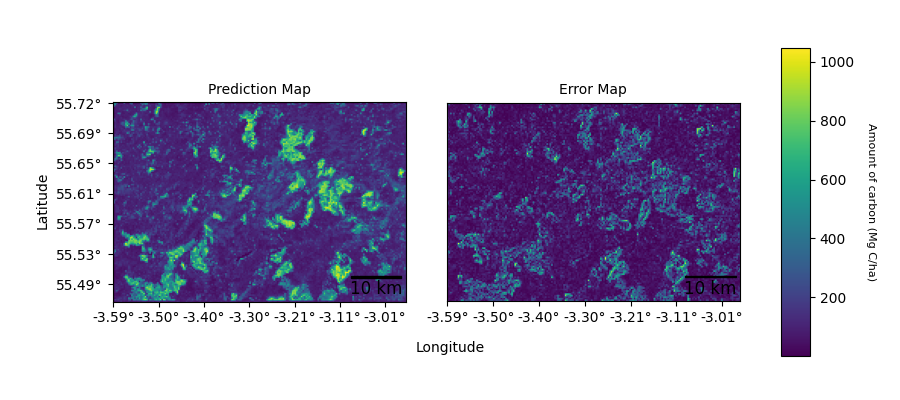
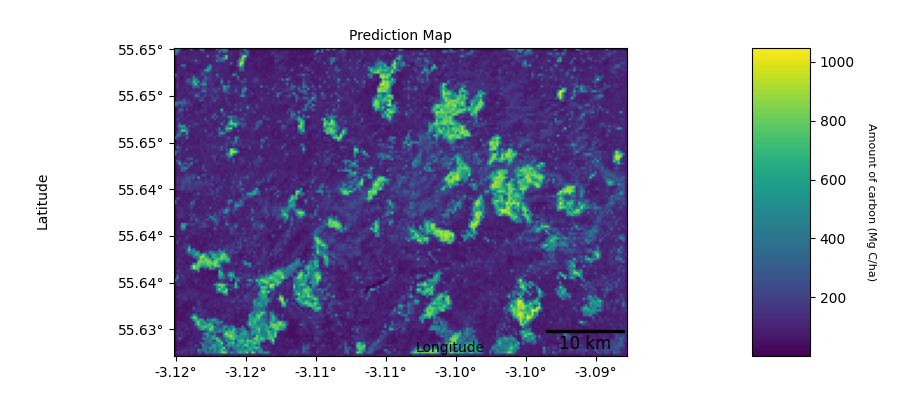
Fixed carbon output - now outputs matching area, although the pixels are limited to 300m by the ML

diff --git a/workspace/lib/goomap.dart b/workspace/lib/goomap.dart
@@ -95,30 +95,7 @@ class _GooMapState extends State<GooMap> {
     return -1;
   }
 
-  /*
 
-  Future<UserModel> createUser(String name, String jobTitle) async {
-    //final String apiUrl = "https://reqres.in/api/users";
-    final String apiUrl = "http://10.0.2.2:5000/lat_long/carbon";
-    final response = await http
-        .post(Uri.parse(apiUrl), body: {"name": name, "job": jobTitle});
-    print('----------------');
-    print(' STATUS CODE: ');
-    print(response.statusCode);
-    print('----------------');
-    if (response.statusCode == 200) {
-      final String responseString = response.body;
-      print(' ------------- ');
-      print(' RESPONSE BODY: ');
-      print(responseString);
-      print(' ------------- ');
-
-      return userModelFromJson(responseString);
-    } else {
-      return null;
-    }
-  }
-  */
 
   Future<Image> sendCoords(LatLng top_l, LatLng btm_r) async {
     //final String apiUrl = "https://reqres.in/api/users";
@@ -131,20 +108,20 @@ class _GooMapState extends State<GooMap> {
       "btm_r_lat": btm_r.latitude.toString(),
       "btm_r_long": btm_r.longitude.toString()
     });
+
     print('----------------');
     print(' STATUS CODE: ');
     print(response.statusCode);
     print('----------------');
     if (response.statusCode == 200) {
       final String responseString = response.body;
-      // print(' ------------- ');
-      // print(' RESPONSE BODY: ');
-      // print(responseString);
-      // print(' ------------- ');
-      // // final carbonPlot = await Image.memory(response.bodyBytes).image;
+      print(' ------------- ');
+      print(' RESPONSE BODY: ');
+      print(responseString);
+      print(' ------------- ');
       var carbonPlot = await Image.memory(response.bodyBytes);
       return carbonPlot;
-      //return coordsFromJson(responseString);
+      // return coordsFromJson(responseString);
     } else {
       return null;
     }
@@ -358,13 +335,16 @@ class _GooMapState extends State<GooMap> {
                 if (polygonLatLngs.length > 3) {
                   Tuple2<LatLng, LatLng> rec =
                       approximateRectangle(polygonLatLngs);
+
                   void test() async {
-                    //Coords _aCoord;
+                    // UserModel _aUser;
                     print(' ----- IN void test() -----');
-                    // final Coords aCoord =
-                    //     await sendCoords(rec.item1, rec.item2);
+                    // final UserModel aUser = await createUser("Kob", "stu");
+
                     final Image carbonPlot =
                         await sendCoords(rec.item1, rec.item2);
+                    // final Coords aCoord =
+                    //     await sendCoords(rec.item1, rec.item2);
                     Navigator.push(
                         context,
                         MaterialPageRoute(

diff --git a/workspace/lib/talk_server.dart b/workspace/lib/talk_server.dart
@@ -31,3 +31,35 @@ class Coords {
         "btm_r_long": btmRLong,
       };
 }
+
+UserModel userModelFromJson(String str) => UserModel.fromJson(json.decode(str));
+
+String userModelToJson(UserModel data) => json.encode(data.toJson());
+
+class UserModel {
+  String name;
+  String job;
+  String id;
+  DateTime createdAt;
+
+  UserModel({
+    this.name,
+    this.job,
+    this.id,
+    this.createdAt,
+  });
+
+  factory UserModel.fromJson(Map<String, dynamic> json) => UserModel(
+        name: json["name"],
+        job: json["job"],
+        id: json["id"],
+        createdAt: DateTime.parse(json["createdAt"]),
+      );
+
+  Map<String, dynamic> toJson() => {
+        "name": name,
+        "job": job,
+        "id": id,
+        "createdAt": createdAt.toIso8601String(),
+      };
+}

diff --git a/server/carbon_calc/ML/Carbon-Trading-Verfication/scotland_carbon/src/carbon_maps.py b/server/carbon_calc/ML/Carbon-Trading-Verfication/scotland_carbon/src/carbon_maps.py
@@ -58,7 +58,7 @@ def evaluate(model_path, input_path, isLog):
 
 
 # Function to plot prediction data and error data
-def plot_graph(result_data, err_data, title, map_style, out_file_name, x_coord_l, x_coord_r, y_coord_t, y_coord_b):
+def plot_graph(result_data, title, map_style, out_file_name, x_coord_l, x_coord_r, y_coord_t, y_coord_b):
     # Set font
     print(' ------------------------- ')
     print(' x_l: ', x_coord_l, '  x_r: ', x_coord_r, '  y_t: ', y_coord_t, '  y_b: ', y_coord_b)
@@ -85,15 +85,15 @@ def plot_graph(result_data, err_data, title, map_style, out_file_name, x_coord_l
 
     ###################################################################################
     # Specify grid ratio
-    gridspec = {'width_ratios': [1, 1, 0.1]}
+    gridspec = {'width_ratios': [1, 0.1]}
     # Create figure and subplots
-    fig, (ax1, ax2, ax3) = plt.subplots(ncols=3, nrows=1, figsize=(9, 4), gridspec_kw=gridspec)
+    fig, (ax1, ax3) = plt.subplots(ncols=2, nrows=1, figsize=(9, 4), gridspec_kw=gridspec)
     
     # Set formatter for x and y axis
     ax1.xaxis.set_major_formatter(plt.FuncFormatter(x_format_func))
-    ax2.xaxis.set_major_formatter(plt.FuncFormatter(x_format_func))
+    #ax2.xaxis.set_major_formatter(plt.FuncFormatter(x_format_func))
     ax1.xaxis.set_major_locator(plt.MaxNLocator(7))
-    ax2.xaxis.set_major_locator(plt.MaxNLocator(7))
+    #ax2.xaxis.set_major_locator(plt.MaxNLocator(7))
     ax1.yaxis.set_major_formatter(plt.FuncFormatter(y_format_func))
 
     # Set scalebar for left and right subplot
@@ -105,25 +105,25 @@ def plot_graph(result_data, err_data, title, map_style, out_file_name, x_coord_l
                                size_vertical=1,
                                fontproperties=fontprops)
     
-    scalebar2 = AnchoredSizeBar(ax2.transData,
-                               33.3, '10 km', 'lower right', 
-                               pad=0.1,
-                               color='black',
-                               frameon=False,
-                               size_vertical=1,
-                               fontproperties=fontprops)
+    # scalebar2 = AnchoredSizeBar(ax2.transData,
+    #                            33.3, '10 km', 'lower right', 
+    #                            pad=0.1,
+    #                            color='black',
+    #                            frameon=False,
+    #                            size_vertical=1,
+    #                            fontproperties=fontprops)
 
     # Add scale bar to subplots
     ax1.add_artist(scalebar1)
-    ax2.add_artist(scalebar2)
+    #ax2.add_artist(scalebar2)
     # Set title to subplots
     ax1.set_title('Prediction Map', size=10)
-    ax2.set_title('Error Map', size=10)
+    #ax2.set_title('Error Map', size=10)
     
     # Set prediction plot and error plot with colour map
     pred_plot = ax1.imshow(result_data, cmap = map_style)
-    err_plot = ax2.imshow(err_data, cmap = map_style)
-    ax2.get_yaxis().set_visible(False)
+    #err_plot = ax2.imshow(err_data, cmap = map_style)
+    #ax2.get_yaxis().set_visible(False)
     
     # Set figure labels - latitude and longitude
     fig.text(0.5, 0.12, 'Longitude', ha='center')
@@ -190,7 +190,7 @@ def plot_single_graph(result_data, map_style, out_file_name):
 # Get SOC Ground Truth
 #soc_truth = rasterio.open(fr'C:\Users\admin\OneDrive\Computing\Yr5 Advanced Computing\MAC Project\Carbon-Trading-Verification\scotland_carbon\data\Train_SOCS_0-30_27700_clipped.tif').read(1)
 
-def main(x_coord_l, x_coord_r, y_coord_t, y_coord_b):
+def main(path_to_rasterio, x_coord_l, x_coord_r, y_coord_t, y_coord_b):
     soc_truth = rasterio.open(fr'/Users/kobikelemen/flutter/packages/eng-change-computing-project/server/carbon_calc/ML/Carbon-Trading-Verfication/scotland_carbon/data/Train_SOCS_0-30_27700_clipped.tif').read(1)
     
     # Get SOC Prediction
@@ -203,9 +203,9 @@ def main(x_coord_l, x_coord_r, y_coord_t, y_coord_b):
     #agb_truth = rasterio.open(fr'C:\Users\admin\OneDrive\Computing\Yr5 Advanced Computing\MAC Project\Carbon-Trading-Verification\scotland_carbon\data\agb_c1_27700_300m_clipped.tif').read(1)
     agb_truth = rasterio.open(fr'/Users/kobikelemen/flutter/packages/eng-change-computing-project/server/carbon_calc/ML/Carbon-Trading-Verfication/scotland_carbon/data/agb_c1_27700_300m_clipped.tif').read(1)
     # Get AGB Prediction
-    agb_result = evaluate(model_paths['model_H'], input_paths['model_H'], False)
+    agb_result = evaluate(model_paths['model_H'], path_to_rasterio, False)
     # Uncomment to plot agb predicion and error graphs
-    plot_graph(agb_result, np.abs(agb_truth - agb_result[:130, :192]), 'YlGn','viridis' ,fr'/Users/kobikelemen/flutter/packages/eng-change-computing-project/server/flask_server/carbon_prediction_images/graph', x_coord_l, x_coord_r, y_coord_t, y_coord_b)
+    plot_graph(agb_result, 'YlGn','viridis' ,fr'/Users/kobikelemen/flutter/packages/eng-change-computing-project/server/flask_server/carbon_prediction_images/graph_1', x_coord_l, x_coord_r, y_coord_t, y_coord_b)
 
     # Uncomment to plot total carbon ground truth 
     # plot_single_graph(
@@ -225,7 +225,10 @@ def main(x_coord_l, x_coord_r, y_coord_t, y_coord_b):
     # plot_single_graph(
     #     agb_result+soc_result, 
     #     'YlOrRd' ,
-    #     '../../report_output/exp1-joint/carbon_maps/total_carbon_map_pred.png'
+    #     '/Users/kobikelemen/flutter/packages/eng-change-computing-project/server/carbon_calc/ML/Carbon-Trading-Verfication/scotland_carbon/report_output/exp1-joint/carbon_maps/total_carbon_map_pred_1.png'
     #     )
 
 
+if __name__ == '__main__':
+    pass
+    #main(-3.7037717, -2.7696528, 55.7541937, 55.4075244)

diff --git a/server/flask_server/flaskr/lat_long.py b/server/flask_server/flaskr/lat_long.py
@@ -7,6 +7,8 @@ sys.path.append('/Users/kobikelemen/flutter/packages/eng-change-computing-projec
 from carbon_calc import format_data
 sys.path.append('/Users/kobikelemen/flutter/packages/eng-change-computing-project/server/carbon_calc/ML/Carbon-Trading-Verfication/scotland_carbon/src/')
 from carbon_maps import main
+sys.path.append('/Users/kobikelemen/flutter/packages/eng-change-computing-project/server/carbon_calc/')
+from format_data import crop_image
 from flask import (
     Blueprint, flash, g, redirect, render_template, request, session, url_for
 )
@@ -15,20 +17,31 @@ bp = Blueprint('lat_long', __name__, url_prefix='/lat_long')
 
 @bp.route('/carbon', methods=('GET', 'POST'))
 def carbon():
-    #if request.method == 'POST':
-    #    format_data.crop_image(request.data)
 
     # latitude is y, longitude is x
     print(' ---- request.form[top_l_lat] ---- ', request.form['top_l_lat'])
     print(' ---- request.form[top_l_long] ---- ', request.form['top_l_long'])
     print(' ---- request.form[btm_r_lat] ---- ', request.form['btm_r_lat'])
     print(' ---- request.form[btm_r_long] ---- ', request.form['btm_r_long'])
+
+    path_to_rasterio = crop_image(
+        float(request.form['top_l_lat']),
+        float(request.form['top_l_long']),
+        float(request.form['btm_r_lat']),
+        float(request.form['btm_r_long'])
+        )
+    path_to_rasterio = '/Users/kobikelemen/flutter/packages/gdal_outputs/output1.tif'
     main(
+        path_to_rasterio,
         float(request.form['top_l_long']),
         float(request.form['btm_r_long']),
         float(request.form['top_l_lat']),
         float(request.form['btm_r_lat'])
         )
+    # print('---------------')
+    # print('REQUEST.FORM: ')
+    # print(request.form)
+    # print('---------------')
     # return request.form
-    return send_file('/Users/kobikelemen/flutter/packages/eng-change-computing-project/server/flask_server/carbon_prediction_images/graph.png', mimetype='image/png')
+    return send_file('/Users/kobikelemen/flutter/packages/eng-change-computing-project/server/flask_server/carbon_prediction_images/graph_1.png', mimetype='image/png')
 

diff --git a/server/carbon_calc/format_data.py b/server/carbon_calc/format_data.py
@@ -1,12 +1,9 @@
-from .ML import *
-#from osgeo import gdal
-#import pandas as pd
+from osgeo import gdal
+import pandas as pd
+from OSGridConverter import latlong2grid
 
-
-
-"""
 def crop_image(
-    xmin, ymin, xmax, ymax,
+    tl_lat, tl_long, br_lat, br_long,
     path_to_outputs = "/Users/kobikelemen/flutter/packages/gdal_outputs", 
     path_to_terrence = "/Users/kobikelemen/Carbon-Trading-Verfication",
     ):
@@ -16,7 +13,17 @@ def crop_image(
    rasout = path_to_outputs + "/output1.tif"
    # Define clipping extent
    # INSERT HERE THE CORRECT COORDINATES
-   result = gdal.Warp(rasout, rasin, outputBounds=(xmin, ymin, xmax, ymax))
+   # RASTER IMAGE PATH RETURNED
+   top_l = latlong2grid(tl_lat, tl_long)
+   btm_r = latlong2grid(br_lat, br_long)
+   print(' ------------------------------------- ')
+   print(' TOP_L.E: ' ,top_l.E, '  BTM_R.N: ', btm_r.N, '  BTM_R.E: ', btm_r.E, '  TOP_L.N: ', top_l.N)
+   print(' ------------------------------------- ')
+   #result = gdal.Warp(rasout, rasin, outputBounds=(xmin, ymin, xmax, ymax))
+   result = gdal.Warp(rasout, rasin, outputBounds=(top_l.E, btm_r.N, btm_r.E, top_l.N), xRes = 800, yRes=800)#, width=2000, height=3000)
+   return rasout
+
+"""
    xyz = gdal.Translate(
     path_to_outputs + "/outputXYZ.xyz", rasout)
    xyz = None
@@ -28,3 +35,11 @@ def crop_image(
    finalCSV = path_to_outputs + "/outputCSV.csv"
    return finalCSV 
 """
+if __name__ == '__main__':
+
+   path = crop_image(
+      55.623897157178575, 
+      -3.156345784664154, 
+      55.58755107155721, 
+      -3.1074367091059685
+      )

diff --git a/server/carbon_calc/test.py b/server/carbon_calc/test.py
@@ -1,0 +1,11 @@
+#!/usr/local/bin/python
+
+from PIL import Image
+
+def get_num_pixels(filepath):
+    width, height = Image.open(filepath).size
+    return width*height
+
+if __name__ == "__main__":
+    print(get_num_pixels("/Users/kobikelemen/flutter/packages/gdal_outputs/output1.tif"))
+    print(get_num_pixels('/Users/kobikelemen/flutter/packages/eng-change-computing-project/server/carbon_calc/ML/Carbon-Trading-Verfication/scotland_carbon/data/MODEL_H_EVAL.tif'))
